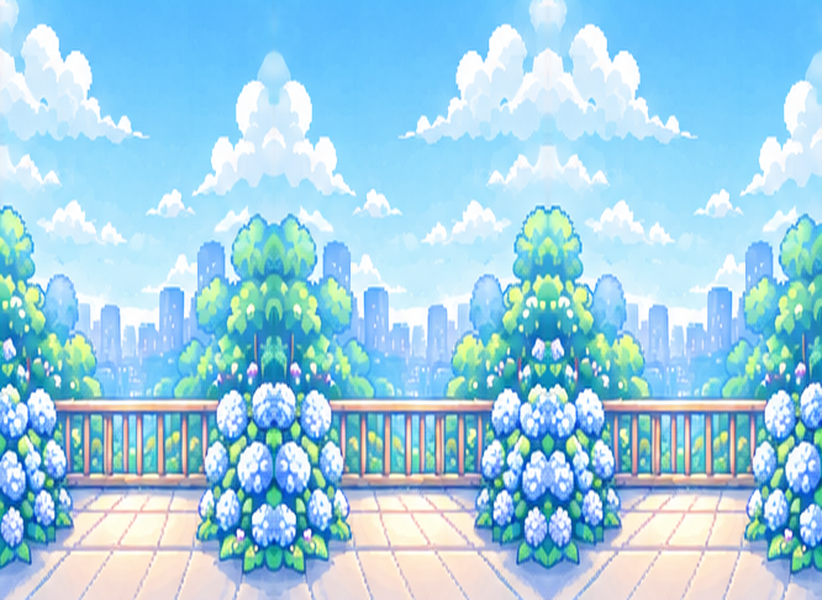
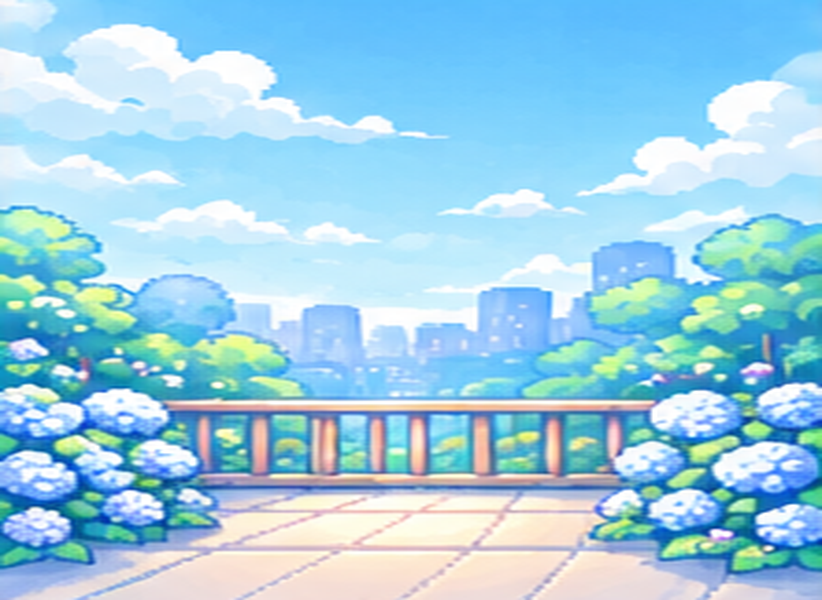
落地窗修两处：天空改成整体拉伸（平铺会出现多个太阳/月亮），关帘宽度补到盖住整条窗不再漏缝；补回归断言

diff --git a/test/model.test.js b/test/model.test.js
@@ -547,6 +547,26 @@ assert.equal(zh('status.remain', { seconds: 30 }).includes('30'), true)
   assert.ok(sky.length >= 3, '天空还是按时间段分层')
   assert.ok(sky.every((part) => part.z < frame.z), '天空在框体下面')
 }
+// 关帘要能盖住整扇窗（窗户拉长后，帘子宽度也得跟上，不然中间漏缝）
+{
+  const root = path.join(here, '..', 'data', 'maps', 'living', 'furniture')
+  const win = JSON.parse(readFileSync(path.join(root, 'living_window.json'), 'utf8'))
+  const frame = win.parts.find((part) => part.id === 'frame')
+  const frameX0 = frame.sprite.rect[0]
+  const frameX1 = frameX0 + frame.sprite.rect[2] * frame.sprite.repeat.count
+  for (const key of ['curtain-blue-closed', 'curtain-white-closed']) {
+    const left = win.parts.find((part) => part.id === `${key}-left`)
+    const right = win.parts.find((part) => part.id === `${key}-right`)
+    assert.ok(left && right, `${key} 左右两片都在`)
+    const l0 = left.sprite.rect[0]
+    const l1 = l0 + left.sprite.rect[2]
+    const r0 = right.sprite.rect[0]
+    const r1 = r0 + right.sprite.rect[2]
+    assert.ok(l0 <= frameX0, `${key} 左侧盖住窗边`)
+    assert.ok(r1 >= frameX1, `${key} 右侧盖住窗边`)
+    assert.ok(l1 >= r0, `${key} 中间合拢不漏缝（${l1} >= ${r0}）`)
+  }
+}
 console.log('model tests passed:', {
   switches,
   energy: Math.round(home.character.energy),

diff --git a/AGENTS.md b/AGENTS.md
@@ -186,7 +186,7 @@ index.js        插件入口（返回 inject/apply）
 | 房间灯何时亮 | `scene.json` → `roomLight: { mode: "prop", prop: "livingLamp" }`（否则按天黑自动） |
 | 一次性关掉全部氛围特效 | `scene.json` → `"effects": false` |
 
-**窗框素材**：客厅落地窗是「一段门扇 × N」拼出来的——`win-panel.png` 是单段（细立柱 + 透明玻璃），`living_window.json` 里用 `repeat: { count: 3, dx: 137 }` 拼成 411px 的长窗；天空用横版全景 `win-sky-wide-*.png`（源图裁掉自带蓝框后镜像拼 3 份，避免接缝）。想把窗户拉更长：改 `count`、同步改天空 rect 宽度和 `scene.light.sources` 的 spread/reach。
+**窗框素材**：客厅落地窗是「一段门扇 × N」拼出来的——`win-panel.png` 是单段（细立柱 + 透明玻璃），`living_window.json` 里用 `repeat: { count: 3, dx: 137 }` 拼成 411px 的长窗；天空用横版全景 `win-sky-wide-*.png`——**整体拉伸，不要平铺**：背景里有太阳/月亮，镜像平铺会变成「多个太阳」（踩过）。关帘时两片帘子必须在中间合拢盖住整条窗（窗拉长后帘子宽度也要跟着改，`test/model.test.js` 里有断言兜着）。想把窗户拉更长：改 `count`、同步改天空 rect 宽度、帘子宽度和 `scene.light.sources` 的 spread/reach。
 
 **坑**：发光件必须画在**光源层**（`layer: "light"` 或代码里推入 `lightParts`），否则会被家具精灵本身盖住。
 
